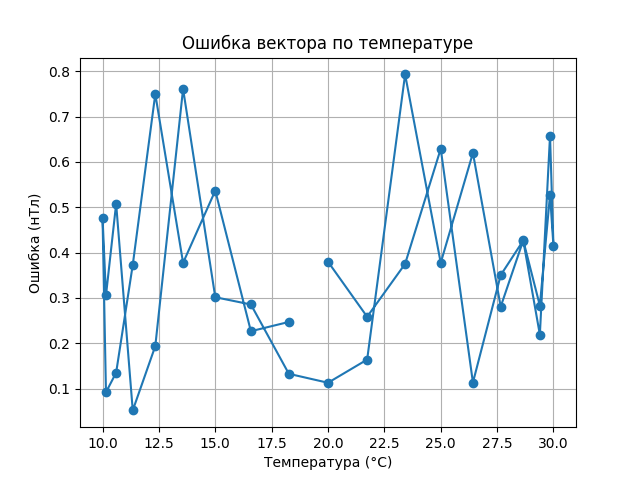
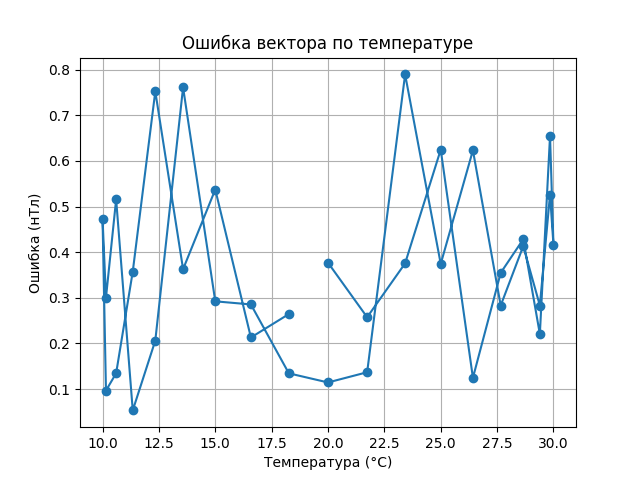
добавил больше параметров

diff --git a/calibrate.py b/calibrate.py
@@ -33,9 +33,11 @@ M_calibrated = (M_raw_corrected - b) @ A
 x, y, z = M_calibrated[:, 0], M_calibrated[:, 1], M_calibrated[:, 2]
 
 X_nl_z = np.column_stack([
+    x, y, z,
     x**2, y**2, z**2,
     x*y, x*z, y*z,
-    z**3
+    x**3, y**3, z**3,
+    x**2 * y, x * y**2, x * z**2, y * z**2
 ])
 
 residual_z = M_calibrated[:, 2] - M_ref[:, 2]
